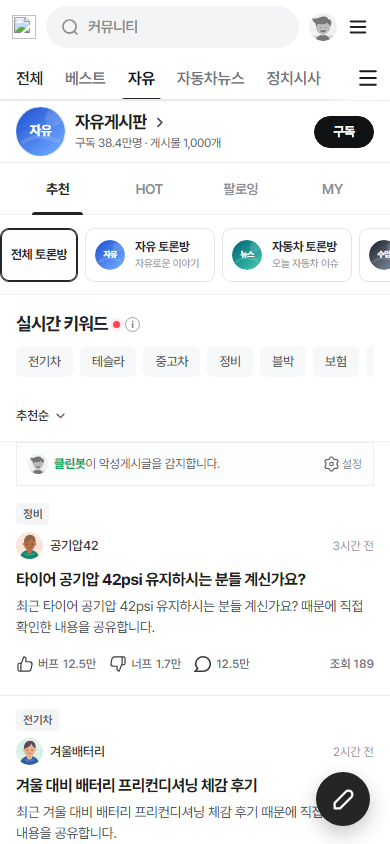
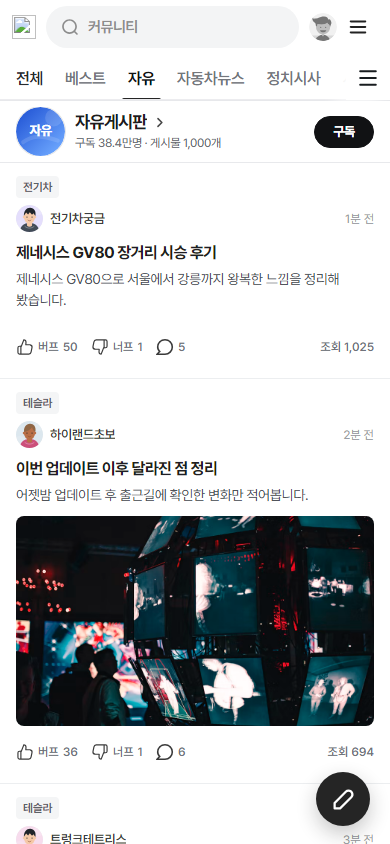
Keep only Naver discussion feed cards

diff --git a/public/community/naver-discussion-feed.js b/public/community/naver-discussion-feed.js
@@ -1,15 +1,6 @@
 (function(){
   'use strict';
 
-  var state={section:'추천',room:'전체',keyword:'',sort:'추천순'};
-  var roomDefinitions=[
-    {name:'전체',caption:'전체 토론'},
-    {name:'자유',caption:'자유로운 이야기',boardId:'free'},
-    {name:'자동차',caption:'오늘 자동차 이슈',boardId:'car-news'},
-    {name:'중고차',caption:'매물과 구매 정보',boardId:'import-car'},
-    {name:'바이크',caption:'라이더 이야기',boardId:'bike-cycle'}
-  ];
-  var keywords=['전기차','테슬라','중고차','정비','블박','보험','튜닝','바이크'];
   var bodyFallbacks=[
     '직접 확인한 내용과 사용하면서 느낀 점을 공유합니다. 같은 경험이 있는 분들의 의견도 궁금합니다.',
     '구매를 고민하면서 비교한 내용을 정리했습니다. 실제 사용자 분들은 어떤 기준으로 선택하셨나요?',
@@ -28,14 +19,8 @@
   function cleanTitle(value){return String(value||'').replace(/^\[[^\]]+\]\s*/,'');}
   function bodyFor(post,index){return Array.isArray(post.body)&&post.body.length?post.body[0]:bodyFallbacks[index%bodyFallbacks.length];}
   function avatarFor(post,index){return post.authorAvatar||'assets/profile-avatars/avatar-'+String(index%20+1).padStart(2,'0')+'.svg';}
-  function detailUrl(post){return './chzzk-detail.html?id='+encodeURIComponent(post.id)+'&v=20261016naverdiscussion1';}
-  function icon(name){return 'assets/chzzk-detail/icons/'+name+'.svg?v=20261016naverdiscussion1';}
-  function uiIcon(name){return 'assets/reddit-ui/'+name+'.svg?v=20261016naverdiscussion1';}
-  function roomAvatar(definition){
-    if(!definition.boardId||!window.BBMCommunityBoardNavigation)return 'assets/free-board-avatar.png';
-    var board=window.BBMCommunityBoardNavigation.catalog.find(function(item){return item.id===definition.boardId;});
-    return board?window.BBMCommunityBoardNavigation.avatarSrc(board):'assets/free-board-avatar.png';
-  }
+  function detailUrl(post){return './chzzk-detail.html?id='+encodeURIComponent(post.id)+'&v=20261016naverdiscussion2';}
+  function icon(name){return 'assets/chzzk-detail/icons/'+name+'.svg?v=20261016naverdiscussion2';}
   function categoryFor(post){return post.category||String(post.title||'').match(/^\[([^\]]+)\]/)?.[1]||'자유';}
   function metric(value){
     var number=Math.max(0,Number(value)||0);
@@ -43,72 +28,31 @@
     if(number>=1000){var thousand=Math.floor(number/100)/10;return (thousand%1===0?String(thousand):thousand.toFixed(1))+'천';}
     return String(number);
   }
-  function roomMatches(post){
-    if(state.room==='전체')return true;
-    var value=(categoryFor(post)+' '+post.title).toLowerCase();
-    var terms={자유:[],자동차:['자동차','전기차','테슬라','정비','튜닝','블박'],중고차:['중고차','보험'],바이크:['바이크','오토바이']}[state.room]||[state.room];
-    return !terms.length||terms.some(function(term){return value.indexOf(term.toLowerCase())>-1;});
+  function mediaFor(post){
+    if(!post.detailImage)return '';
+    return '<a class="naverDiscussionMedia" href="'+detailUrl(post)+'" aria-label="'+esc(cleanTitle(post.title))+' 이미지와 상세 보기"><img src="'+esc(post.detailImage)+'" alt="" loading="lazy"></a>';
   }
-  function filteredPosts(){
-    var data=posts().filter(roomMatches);
-    if(state.keyword)data=data.filter(function(post){return (categoryFor(post)+' '+post.title+' '+bodyFor(post,0)).indexOf(state.keyword)>-1;});
-    if(state.section==='HOT'||state.sort==='추천순')data.sort(function(a,b){return Number(b.reply||0)+Number(b.view||0)/50-(Number(a.reply||0)+Number(a.view||0)/50);});
-    if(state.sort==='최신순')data.sort(function(a,b){return Number(a.id)-Number(b.id);});
-    if(state.sort==='댓글순')data.sort(function(a,b){return Number(b.reply||0)-Number(a.reply||0);});
-    if(state.sort==='조회순')data.sort(function(a,b){return Number(b.view||0)-Number(a.view||0);});
-    return data;
-  }
-  function topTabs(){
-    return '<div class="naverDiscussionTabs" role="tablist" aria-label="피드 구분">'+['추천','HOT','팔로잉','MY'].map(function(label){return '<button class="naverDiscussionTab '+(state.section===label?'on':'')+'" type="button" role="tab" aria-selected="'+(state.section===label)+'" data-discussion-section="'+label+'">'+label+'</button>';}).join('')+'</div>';
-  }
-  function rooms(){
-    return '<div class="naverDiscussionRooms" aria-label="토론방 선택">'+roomDefinitions.map(function(room){var first=room.name==='전체';return '<button class="naverDiscussionRoom '+(state.room===room.name?'on':'')+'" type="button" data-discussion-room="'+room.name+'" aria-pressed="'+(state.room===room.name)+'">'+(first?'':'<img src="'+esc(roomAvatar(room))+'" alt="">')+'<span class="naverDiscussionRoomCopy"><strong>'+(first?'전체 토론방':esc(room.name)+' 토론방')+'</strong>'+(first?'':'<span>'+esc(room.caption)+'</span>')+'</span></button>';}).join('')+'</div>';
-  }
-  function keywordArea(){
-    return '<section class="naverDiscussionKeywordArea" aria-labelledby="naverDiscussionKeywordTitle"><h2 class="naverDiscussionSectionTitle" id="naverDiscussionKeywordTitle">실시간 키워드 <span class="naverDiscussionLiveDot" aria-hidden="true"></span><span class="naverDiscussionInfo" aria-hidden="true">i</span></h2><div class="naverDiscussionKeywords">'+keywords.map(function(keyword){return '<button class="naverDiscussionKeyword '+(state.keyword===keyword?'on':'')+'" type="button" data-discussion-keyword="'+keyword+'" aria-pressed="'+(state.keyword===keyword)+'">'+keyword+'</button>';}).join('')+'</div></section>';
-  }
-  function sortRow(){
-    return '<div class="naverDiscussionSortRow"><button class="naverDiscussionSort" type="button" aria-expanded="false" aria-controls="naverDiscussionSortMenu">'+state.sort+'<img src="'+uiIcon('chevron-down')+'" alt=""></button><div class="naverDiscussionSortMenu" id="naverDiscussionSortMenu" role="menu" hidden>'+['추천순','최신순','댓글순','조회순'].map(function(sort){return '<button class="naverDiscussionSortChoice '+(state.sort===sort?'on':'')+'" type="button" role="menuitemradio" aria-checked="'+(state.sort===sort)+'" data-discussion-sort="'+sort+'">'+sort+'</button>';}).join('')+'</div></div>';
-  }
-  function cleanbot(){return '<div class="naverDiscussionCleanbot"><img src="assets/chotot-default-avatar.svg" alt=""><span><strong>클린봇</strong>이 악성게시글을 감지합니다.</span><button type="button" data-cleanbot-settings><img src="'+icon('settings')+'" alt="">설정</button></div>';}
-  function mediaFor(post){if(!post.detailImage)return '';return '<a class="naverDiscussionMedia" href="'+detailUrl(post)+'" aria-label="'+esc(cleanTitle(post.title))+' 이미지와 상세 보기"><img src="'+esc(post.detailImage)+'" alt="" loading="lazy"></a>';}
   function card(post,index){
     var likes=Math.max(0,Math.round(Number(post.view||0)/23)+Number(post.reply||0));
     var dislikes=Math.max(0,Math.round(Number(post.reply||0)/7));
     return '<article class="naverDiscussionCard" data-discussion-post="'+esc(post.id)+'"><span class="naverDiscussionCategory">'+esc(categoryFor(post))+'</span><div class="naverDiscussionIdentity"><img class="naverDiscussionAvatar" src="'+esc(avatarFor(post,index))+'" alt="'+esc(post.user)+' 프로필"><strong class="naverDiscussionAuthor">'+esc(post.user)+'</strong><time class="naverDiscussionTime">'+esc(post.time)+'</time></div><a class="naverDiscussionTitle" href="'+detailUrl(post)+'">'+esc(cleanTitle(post.title))+'</a><p class="naverDiscussionBody">'+esc(bodyFor(post,index))+'</p>'+mediaFor(post)+'<div class="naverDiscussionMetrics" aria-label="게시물 반응"><button class="naverDiscussionMetric" type="button" data-discussion-vote="up" aria-pressed="false"><img src="'+icon('buff')+'" alt="">버프 <span>'+metric(likes)+'</span></button><button class="naverDiscussionMetric" type="button" data-discussion-vote="down" aria-pressed="false"><img src="'+icon('nerf')+'" alt="">너프 <span>'+metric(dislikes)+'</span></button><button class="naverDiscussionMetric" type="button" data-discussion-comment="'+esc(post.id)+'" aria-label="댓글 '+Number(post.reply||0).toLocaleString('ko-KR')+'개"><img src="'+icon('comment-reddit')+'" alt="">'+metric(post.reply)+'</button><span class="naverDiscussionViews">조회 '+Number(post.view||0).toLocaleString('ko-KR')+'</span></div></article>';
   }
-  function hotModule(data){
-    var hot=data.slice().sort(function(a,b){return Number(b.reply||0)-Number(a.reply||0);}).slice(0,3);
-    if(!hot.length)return '';
-    return '<aside class="naverDiscussionHot" aria-labelledby="naverDiscussionHotTitle"><div class="naverDiscussionHotHead"><strong id="naverDiscussionHotTitle">지금 뜨는 토론</strong><span>댓글 많은 글</span></div><div class="naverDiscussionHotRail">'+hot.map(function(post,index){return '<button class="naverDiscussionHotCard" type="button" data-discussion-detail="'+esc(post.id)+'"><span class="naverDiscussionHotCardMeta"><img src="'+esc(avatarFor(post,index+4))+'" alt="">'+esc(post.user)+' · '+esc(post.time)+'</span><strong>'+esc(cleanTitle(post.title))+'</strong><p>'+esc(bodyFor(post,index))+'</p></button>';}).join('')+'</div></aside>';
-  }
   function feedBody(){
-    var data=filteredPosts();
-    if(!data.length)return '<div style="padding:44px 16px;color:#858990;font-size:14px;text-align:center">선택한 조건의 토론이 없습니다.</div>';
-    var first=data.slice(0,3).map(card).join('');
-    var rest=data.slice(3).map(function(post,index){return card(post,index+3);}).join('');
-    return first+hotModule(data)+rest;
+    var data=posts();
+    if(!data.length)return '<div style="padding:44px 16px;color:#858990;font-size:14px;text-align:center">등록된 토론이 없습니다.</div>';
+    return data.map(card).join('');
   }
   function render(){
     phone.classList.remove('compactMode','feedCafeMode','redditFeedMode','chototFeedMode','chototBoardFeedMode','chototDealerFeedMode');
     phone.classList.add('naverDiscussionMode');
     typeLabel.textContent='네이버 토론형';
     list.className='list naverDiscussionList';
-    list.innerHTML=topTabs()+rooms()+keywordArea()+sortRow()+cleanbot()+feedBody();
+    list.innerHTML=feedBody();
     bind();
   }
-  function showToast(message){var toast=document.getElementById('toast');if(!toast)return;toast.textContent=message;toast.classList.add('show');setTimeout(function(){toast.classList.remove('show');},1200);}
   function bind(){
-    list.querySelectorAll('[data-discussion-section]').forEach(function(button){button.addEventListener('click',function(){state.section=button.dataset.discussionSection;render();});});
-    list.querySelectorAll('[data-discussion-room]').forEach(function(button){button.addEventListener('click',function(){state.room=button.dataset.discussionRoom;state.keyword='';render();});});
-    list.querySelectorAll('[data-discussion-keyword]').forEach(function(button){button.addEventListener('click',function(){state.keyword=state.keyword===button.dataset.discussionKeyword?'':button.dataset.discussionKeyword;render();});});
-    var sortButton=list.querySelector('.naverDiscussionSort'),sortMenu=list.querySelector('.naverDiscussionSortMenu');
-    sortButton?.addEventListener('click',function(){var opening=sortMenu.hidden;sortMenu.hidden=!opening;sortButton.setAttribute('aria-expanded',String(opening));});
-    list.querySelectorAll('[data-discussion-sort]').forEach(function(button){button.addEventListener('click',function(){state.sort=button.dataset.discussionSort;render();});});
     list.querySelectorAll('[data-discussion-vote]').forEach(function(button){button.addEventListener('click',function(){var active=button.getAttribute('aria-pressed')==='true';var cardElement=button.closest('.naverDiscussionCard');cardElement.querySelectorAll('[data-discussion-vote]').forEach(function(other){other.classList.remove('is-active');other.setAttribute('aria-pressed','false');});if(!active){button.classList.add('is-active');button.setAttribute('aria-pressed','true');}});});
     list.querySelectorAll('[data-discussion-comment]').forEach(function(button){button.addEventListener('click',function(){location.href='./chzzk-detail.html?id='+encodeURIComponent(button.dataset.discussionComment)+'#comments';});});
-    list.querySelectorAll('[data-discussion-detail]').forEach(function(button){button.addEventListener('click',function(){location.href='./chzzk-detail.html?id='+encodeURIComponent(button.dataset.discussionDetail)+'&v=20261016naverdiscussion1';});});
-    list.querySelector('[data-cleanbot-settings]')?.addEventListener('click',function(){showToast('클린봇 설정은 상세 기능에서 연결됩니다.');});
   }
 
   window.renderNaverDiscussionFeed=render;

diff --git a/design-qa.md b/design-qa.md
@@ -70,18 +70,18 @@ final result: passed
 - browser-rendered implementation: `reports/naver-discussion-feed-1016/implementation-390x844.png`
 - full-view comparison evidence: 원본과 구현을 390 × 844로 함께 캡처해 로컬에서 나란히 검수했다. 제3자 게시물·브랜드 화면은 PR에 보관하지 않았다.
 - viewport and density: 원본·구현 모두 Chrome 390 × 844 CSS px, DPR 1
-- state: 자유게시판, 네이버 토론형, 추천 탭, 전체 토론방, 추천순
+- state: 자유게시판, 네이버 토론형, 게시물 피드 카드만 노출
 
 ## Findings
 
 - P0/P1/P2 없음.
 - fonts and typography: 토론 제목은 Pretendard 16px/24px/750, 본문은 14px/21px으로 원본의 제목→요약 위계를 반영했다.
-- spacing and layout rhythm: 52px 상단 탭, 54px 토론방 카드, 31px 키워드 칩, 44px 클린봇 안내를 사용했다. 보배드림 게시판 프로필은 공통 구조이므로 그대로 유지하고 그 아래부터 토론형 피드를 시작한다.
-- colors and visual tokens: 흰 배경, 중립 회색 경계선, 검정 활성 탭, 클린봇 초록 강조를 적용했다. 네이버 브랜드 자산은 복사하지 않았다.
+- spacing and layout rhythm: 보배드림 게시판 프로필 바로 아래에서 16px 좌우 여백의 토론 카드가 연속되며 별도 네이버 탐색 영역이 끼어들지 않는다.
+- colors and visual tokens: 흰 배경, 중립 회색 경계선, 검정 제목과 회색 메타 정보로 피드 카드에만 네이버 토론의 정보 위계를 적용했다. 네이버 브랜드 자산은 복사하지 않았다.
 - image quality and asset fidelity: 게시판·작성자·게시물 이미지는 저장소의 기존 로컬 자산만 사용하며 게시물 이미지는 지연 로딩한다.
 - copy and content: 네이버 원문 게시물은 복사하지 않고 기존 보배드림 테스트 게시물로 토론 카테고리·작성자·제목·요약·반응 수를 구성했다.
-- interaction: 추천/HOT/팔로잉/MY 탭, 토론방, 키워드, 추천·최신·댓글·조회 정렬, 버프/너프 상호 배타 선택, 댓글·상세 이동을 연결했다.
-- responsive verification: 360/390/412px에서 카드 렌더, 토론방·키워드 필터, 정렬, 투표를 검사했고 가로 오버플로는 모두 0px이었다.
+- interaction: 버프/너프 상호 배타 선택과 댓글·상세 이동만 유지했다. 상단 탭·토론방·키워드·정렬·클린봇·중간 HOT 모듈은 렌더하지 않는다.
+- responsive verification: 360/390/412px에서 피드 카드와 투표 동작을 검사했고 가로 오버플로는 모두 0px이었다.
 - browser verification: Chrome에서 콘솔 오류 0건과 3개 모바일 폭 자동 검사를 확인했다.
 
 ## Comparison history
@@ -89,6 +89,7 @@ final result: passed
 - Pass 1: 네이버 토론 홈에서 탭·토론방·실시간 키워드·정렬·클린봇·토론 카드·중간 인기 토론 모듈의 순서를 실측했다.
 - Fix: 기존 게시판의 보기 방식에 `피드형 · 네이버 토론`을 추가하고, 기존 게시물·프로필·상세 링크를 새 피드 구조에 연결했다.
 - Pass 2: 390px 원본과 구현을 나란히 비교하고 360/390/412px에서 상호작용과 가로 넘침을 재검증했다.
+- 사용자 후속 수정: 네이버의 상단 탐색 구조와 중간 추천 모듈을 모두 제거하고 게시물 피드 리스트만 남겼다.
 
 final result: passed
 
